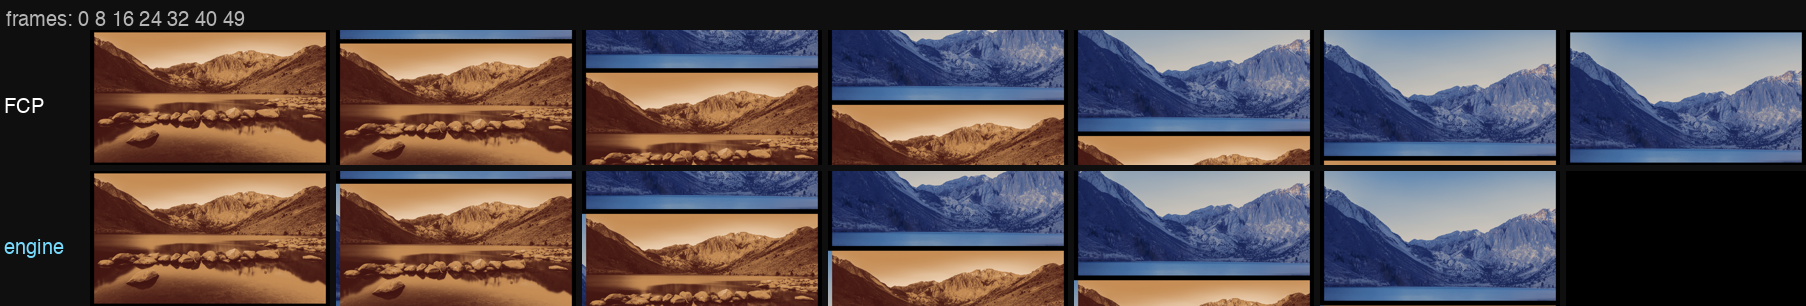
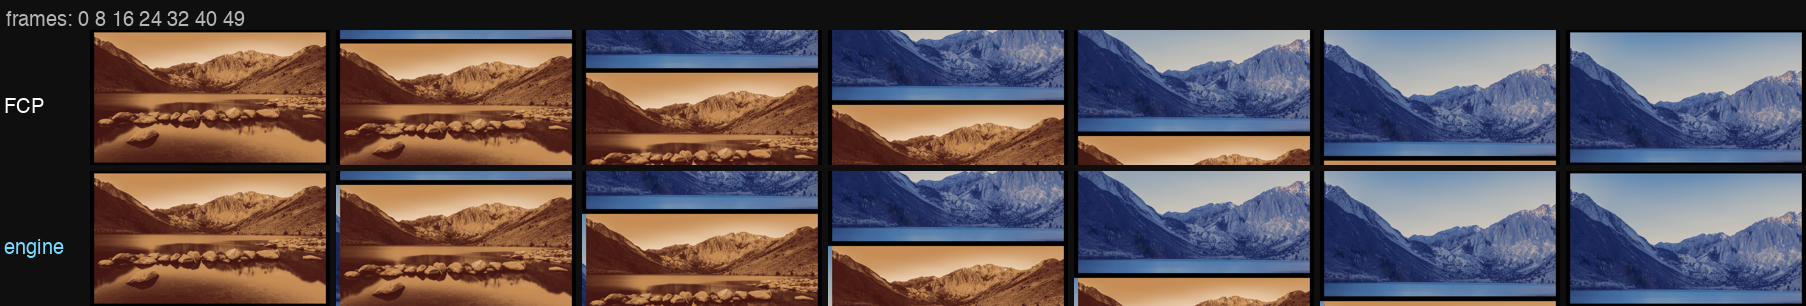
engine: keyframeless curve holds 'value' not 'default' (fixes ghost B clone)
vjeux spotted a second, slightly-offset copy of B rendering behind A. Root cause:
rig opacity snapshots are keyframeless curves carrying value=0 (hidden) with
default=1. evaluateCurve returned curve.default for empty curves, so every
'hidden' clone (Left/Top/Right for Direction=2) rendered at opacity 1 — three
extra ghost copies of B. Now an empty curve holds its 'value' when present,
falling back to 'default'. Only the correct 'Bottom' clone draws for Push's
Bottom-to-Top direction.

Push mean PSNR 23.69 -> 26.60dB. All 65 transitions still render (65/65).

diff --git a/engine/test/diag_draw.ts b/engine/test/diag_draw.ts
@@ -1,0 +1,18 @@
+if (typeof globalThis.ImageData === "undefined") {(globalThis as any).ImageData = class { constructor(public data:any,public width:number,public height?:number){} };}
+import { parseMotr } from '../src/parser/index.js';
+import { evaluate } from '../src/evaluator/index.js';
+import fs from 'node:fs';
+const scene=parseMotr(fs.readFileSync('/Users/vjeux/random/motion-renderer/examples/PETemplates.localized/Transitions.localized/Movements.localized/Push.localized/Push.motr','utf-8'));
+const endSec=scene.settings.animationEndSec!;
+const t=0.4*endSec;
+const e=evaluate(scene,t);
+// walk evaluated tree, print every node that WOULD draw (image/clone/generator + visible)
+function walk(ev:any,d:number){
+  const l=ev.layer;
+  const draws=(l.type==='image'||l.type==='clone'||l.type==='generator');
+  const x=ev.worldTransform[12].toFixed(0), y=ev.worldTransform[13].toFixed(0);
+  const mark = draws && ev.visible ? ' <<< DRAWS' : '';
+  console.log(`${'  '.repeat(d)}[${l.type}] "${l.name}" id=${l.id} vis=${ev.visible} op=${ev.opacity.toFixed(2)} pos=(${x},${y}) clone=${l.cloneSourceId??''} src=${l.source?.type??''}${mark}`);
+  for(const c of ev.children) walk(c,d+1);
+}
+for(const l of e.layers) walk(l,0);

diff --git a/engine/test/diag_rig.ts b/engine/test/diag_rig.ts
@@ -1,0 +1,14 @@
+if (typeof globalThis.ImageData === "undefined") {(globalThis as any).ImageData = class { constructor(public data:any,public width:number,public height?:number){} };}
+import { parseMotr } from '../src/parser/index.js';
+import fs from 'node:fs';
+const scene=parseMotr(fs.readFileSync('/Users/vjeux/random/motion-renderer/examples/PETemplates.localized/Transitions.localized/Movements.localized/Push.localized/Push.motr','utf-8'));
+console.log('rigWidgets:',JSON.stringify(scene.rigWidgets));
+console.log('\nrigBehaviors affecting the clones:');
+const cloneIds=new Set([1999892065,1999892168,1999892165,1999892171]);
+for(const rb of scene.rigBehaviors){
+  if(cloneIds.has(rb.affectedObjectId)){
+    console.log(`  affects=${rb.affectedObjectId} widget=${rb.widgetId} paramType="${rb.paramType}" nsnap=${rb.snapshots.length}`);
+    console.log(`    snapshot values: ${rb.snapshots.map((s:any)=>JSON.stringify(s.curve?.value ?? s.value)).join(', ')}`);
+    console.log(`    snapshot names: ${rb.snapshots.map((s:any)=>s.name).join(', ')}`);
+  }
+}

diff --git a/engine/test/diag_rig2.ts b/engine/test/diag_rig2.ts
@@ -1,0 +1,11 @@
+if (typeof globalThis.ImageData === "undefined") {(globalThis as any).ImageData = class { constructor(public data:any,public width:number,public height?:number){} };}
+import { parseMotr } from '../src/parser/index.js';
+import fs from 'node:fs';
+const scene=parseMotr(fs.readFileSync('/Users/vjeux/random/motion-renderer/examples/PETemplates.localized/Transitions.localized/Movements.localized/Push.localized/Push.motr','utf-8'));
+// Left clone opacity behavior, index 2 snapshot structure
+for(const rb of scene.rigBehaviors){
+  if(rb.affectedObjectId===1999892168 && rb.paramType==='Opacity'){
+    const snap=rb.snapshots[2];
+    console.log('Left clone Opacity snapshot[2]:', JSON.stringify(snap,null,1).slice(0,400));
+  }
+}

diff --git a/engine/src/evaluator/curves.ts b/engine/src/evaluator/curves.ts
@@ -81,7 +81,13 @@ export function evaluateCurve(curve: Curve, timeSec: number): number {
   const { keyframes } = curve;
 
   if (keyframes.length === 0) {
-    return curve.default;
+    // A curve with no keyframes holds a constant. Motion stores the current
+    // constant in `value` (the `value=` attribute); `default` is only the
+    // factory default and is used when no explicit value was authored. Rig
+    // snapshot curves (e.g. Opacity 0/1 selectors) rely on this: their curve is
+    // keyframeless with value=0 or 1 but default=1, so returning `default` here
+    // would make every "hidden" snapshot visible.
+    return curve.value !== undefined ? curve.value : curve.default;
   }
 
   if (keyframes.length === 1) {